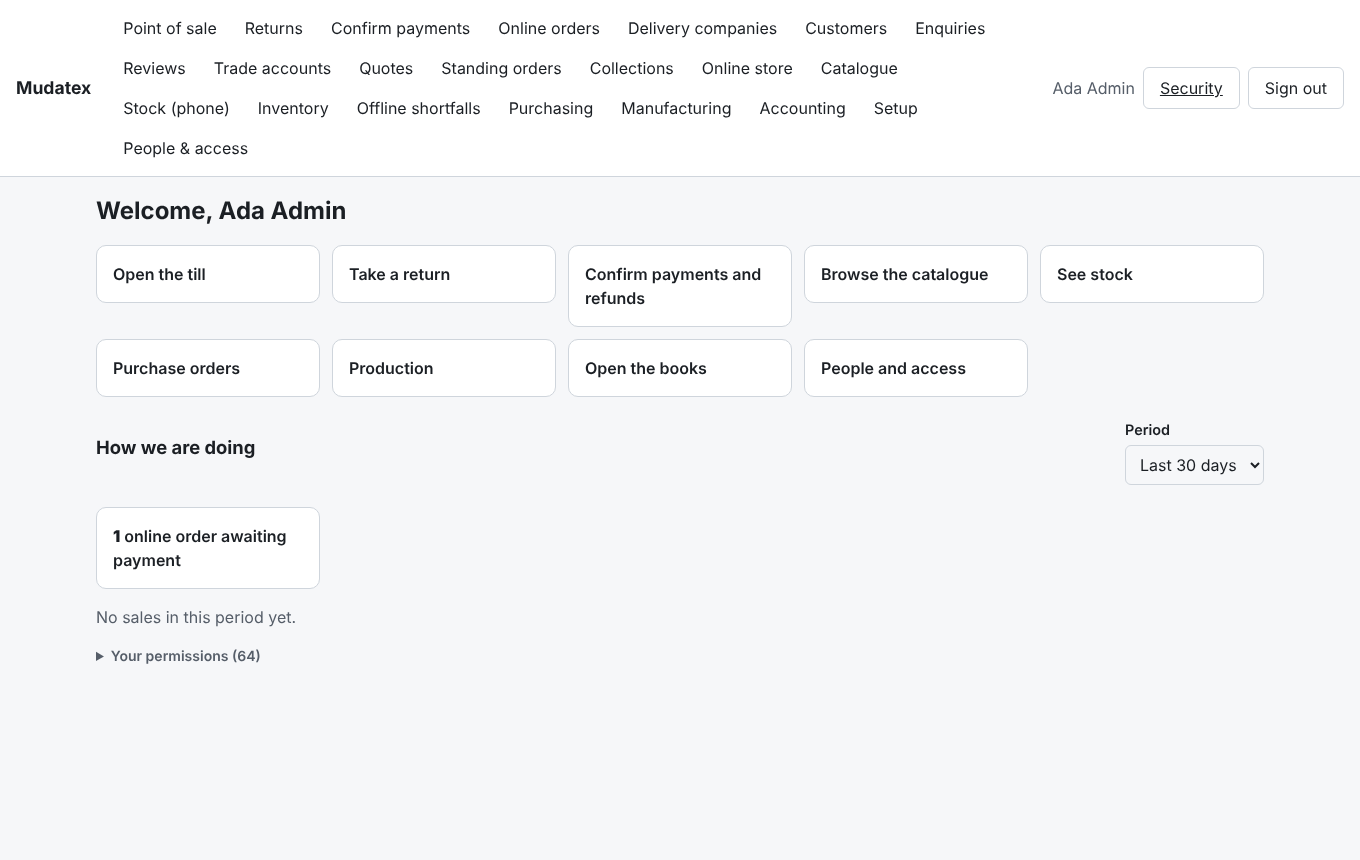
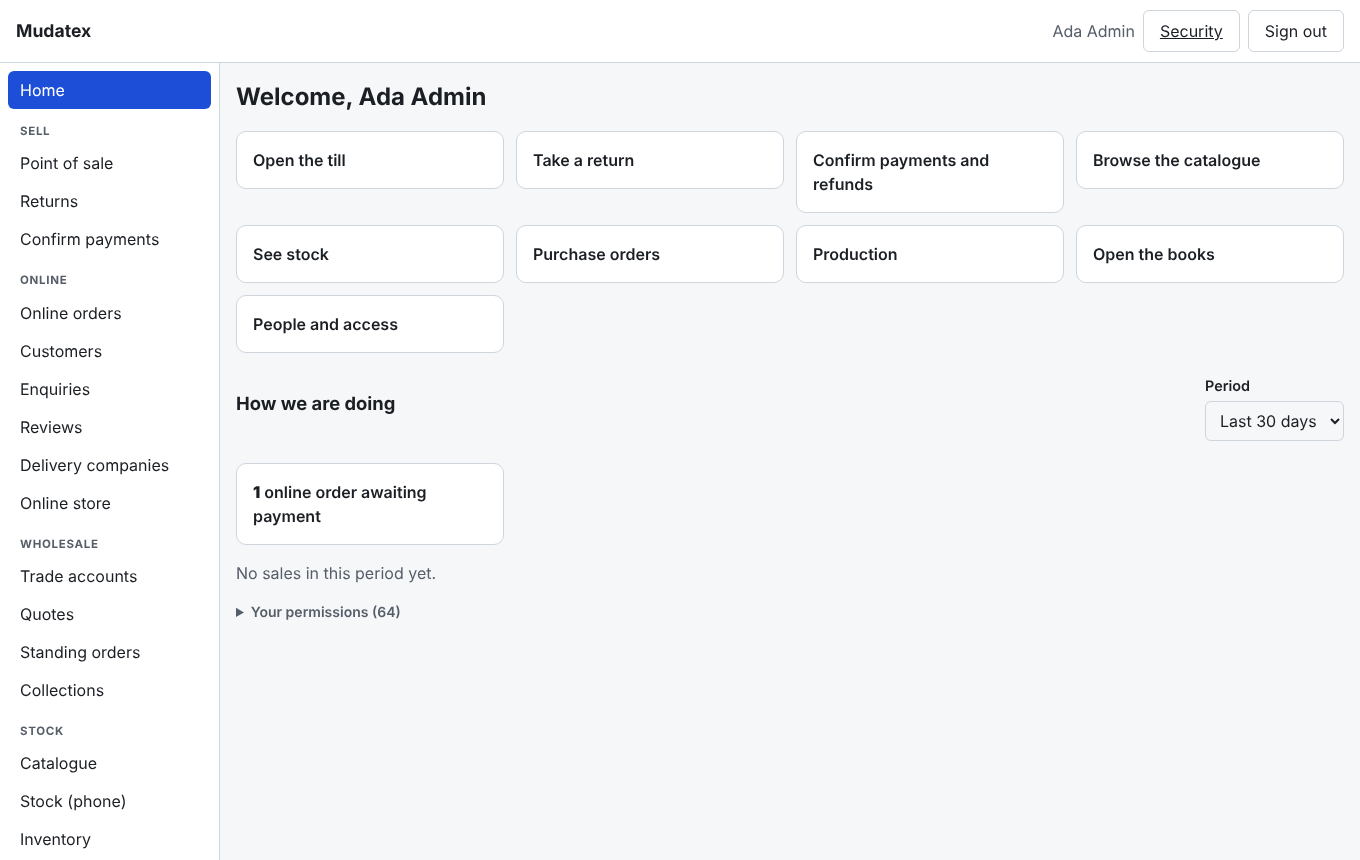
Console menu: grouped sidebar by kind of work, filtered by permission, folded behind a Menu button on phones
Claude-Session: https://claude.ai/code/session_01T6jzjkLiReAXxtcZjntMsg

diff --git a/apps/web/src/components/Layout.tsx b/apps/web/src/components/Layout.tsx
@@ -1,51 +1,82 @@
-import { NavLink, Outlet } from 'react-router-dom';
+import { useEffect, useState } from 'react';
+import { NavLink, Outlet, useLocation } from 'react-router-dom';
 import { useAuth } from '../lib/auth';
 
-const NAV: { to: string; label: string; needs: string }[] = [
-  { to: '/pos', label: 'Point of sale', needs: 'pos.sell' },
-  { to: '/returns', label: 'Returns', needs: 'pos.refund' },
-  { to: '/payments', label: 'Confirm payments', needs: 'pos.payment.verify' },
-  { to: '/orders', label: 'Online orders', needs: 'orders.read' },
-  { to: '/delivery', label: 'Delivery companies', needs: 'carriers.manage' },
-  { to: '/customers', label: 'Customers', needs: 'customers.manage' },
-  { to: '/enquiries', label: 'Enquiries', needs: 'enquiries.manage' },
-  { to: '/reviews', label: 'Reviews', needs: 'reviews.moderate' },
-  { to: '/trade', label: 'Trade accounts', needs: 'trade.manage' },
-  { to: '/quotes', label: 'Quotes', needs: 'quotes.manage' },
-  { to: '/standing-orders', label: 'Standing orders', needs: 'trade.manage' },
-  { to: '/collections', label: 'Collections', needs: 'trade.manage' },
-  { to: '/store', label: 'Online store', needs: 'storefront.manage' },
-  { to: '/catalogue', label: 'Catalogue', needs: 'catalog.read' },
-  { to: '/stock', label: 'Stock (phone)', needs: 'inventory.read' },
-  { to: '/inventory', label: 'Inventory', needs: 'inventory.read' },
-  { to: '/till-exceptions', label: 'Offline shortfalls', needs: 'inventory.adjust' },
-  { to: '/purchasing', label: 'Purchasing', needs: 'procurement.read' },
-  { to: '/manufacturing', label: 'Manufacturing', needs: 'manufacturing.read' },
-  { to: '/accounting', label: 'Accounting', needs: 'accounting.read' },
-  { to: '/setup', label: 'Setup', needs: 'org.manage' },
-  { to: '/access', label: 'People & access', needs: 'iam.manage' },
+interface Item { to: string; label: string; needs: string }
+/** The menu, grouped by the kind of work. A person sees only the links they have permission for, and only the groups that still have one. */
+export const NAV_GROUPS: { title: string; items: Item[] }[] = [
+  { title: 'Sell', items: [
+    { to: '/pos', label: 'Point of sale', needs: 'pos.sell' },
+    { to: '/returns', label: 'Returns', needs: 'pos.refund' },
+    { to: '/payments', label: 'Confirm payments', needs: 'pos.payment.verify' },
+  ] },
+  { title: 'Online', items: [
+    { to: '/orders', label: 'Online orders', needs: 'orders.read' },
+    { to: '/customers', label: 'Customers', needs: 'customers.manage' },
+    { to: '/enquiries', label: 'Enquiries', needs: 'enquiries.manage' },
+    { to: '/reviews', label: 'Reviews', needs: 'reviews.moderate' },
+    { to: '/delivery', label: 'Delivery companies', needs: 'carriers.manage' },
+    { to: '/store', label: 'Online store', needs: 'storefront.manage' },
+  ] },
+  { title: 'Wholesale', items: [
+    { to: '/trade', label: 'Trade accounts', needs: 'trade.manage' },
+    { to: '/quotes', label: 'Quotes', needs: 'quotes.manage' },
+    { to: '/standing-orders', label: 'Standing orders', needs: 'trade.manage' },
+    { to: '/collections', label: 'Collections', needs: 'trade.manage' },
+  ] },
+  { title: 'Stock', items: [
+    { to: '/catalogue', label: 'Catalogue', needs: 'catalog.read' },
+    { to: '/stock', label: 'Stock (phone)', needs: 'inventory.read' },
+    { to: '/inventory', label: 'Inventory', needs: 'inventory.read' },
+    { to: '/till-exceptions', label: 'Offline shortfalls', needs: 'inventory.adjust' },
+  ] },
+  { title: 'Buy and make', items: [
+    { to: '/purchasing', label: 'Purchasing', needs: 'procurement.read' },
+    { to: '/manufacturing', label: 'Manufacturing', needs: 'manufacturing.read' },
+  ] },
+  { title: 'Money', items: [{ to: '/accounting', label: 'Accounting', needs: 'accounting.read' }] },
+  { title: 'Company', items: [
+    { to: '/setup', label: 'Setup', needs: 'org.manage' },
+    { to: '/access', label: 'People & access', needs: 'iam.manage' },
+  ] },
 ];
 
 export function Layout() {
   const { session, signOut, can } = useAuth();
+  const [open, setOpen] = useState(false);
+  const location = useLocation();
+  // On a phone the menu folds away after a choice.
+  useEffect(() => { setOpen(false); }, [location.pathname]);
   if (!session) return null;
+  const groups = NAV_GROUPS.map((g) => ({ ...g, items: g.items.filter((n) => can(n.needs)) })).filter((g) => g.items.length > 0);
   return (
     <div className="shell">
       <a className="skip" href="#main">Skip to content</a>
       <header className="topbar">
         <strong className="brand">Mudatex</strong>
-        <nav aria-label="Main">
-          {NAV.filter((n) => can(n.needs)).map((n) => (
-            <NavLink key={n.to} to={n.to} className={({ isActive }) => (isActive ? 'active' : undefined)}>{n.label}</NavLink>
-          ))}
-        </nav>
         <div className="who">
           <span className="muted" title={session.user.email}>{session.user.displayName}</span>
           <NavLink to="/security" className="btn btn-ghost">Security</NavLink>
           <button type="button" className="btn btn-ghost" onClick={signOut}>Sign out</button>
         </div>
       </header>
-      <main id="main" className="content"><Outlet /></main>
+      <div className="frame">
+        <nav aria-label="Main" className={open ? 'sidenav open' : 'sidenav'}>
+          <button type="button" className="btn menu-toggle" aria-expanded={open} aria-controls="nav-groups" onClick={() => setOpen(!open)}>{open ? 'Close menu' : 'Menu'}</button>
+          <div id="nav-groups" className="nav-groups">
+            <NavLink to="/" end className={({ isActive }) => (isActive ? 'active home-link' : 'home-link')}>Home</NavLink>
+            {groups.map((g) => (
+              <div key={g.title} role="group" aria-label={g.title}>
+                <h2 className="nav-title">{g.title}</h2>
+                <ul className="plain">
+                  {g.items.map((n) => <li key={n.to}><NavLink to={n.to} className={({ isActive }) => (isActive ? 'active' : undefined)}>{n.label}</NavLink></li>)}
+                </ul>
+              </div>
+            ))}
+          </div>
+        </nav>
+        <main id="main" className="content"><Outlet /></main>
+      </div>
     </div>
   );
 }

diff --git a/apps/web/src/styles.css b/apps/web/src/styles.css
@@ -22,11 +22,24 @@ h1 { font-size: 1.5rem; margin: 0; } h2 { font-size: 1.15rem; margin: 0 0 .5rem;
 
 .topbar { display: flex; flex-wrap: wrap; align-items: center; gap: 8px 20px; padding: 10px 16px; background: var(--surface); border-bottom: 1px solid var(--border); }
 .brand { font-size: 1.1rem; }
-.topbar nav { display: flex; flex-wrap: wrap; gap: 4px; flex: 1; }
-.topbar nav a { padding: 6px 12px; border-radius: 6px; color: var(--text); text-decoration: none; }
-.topbar nav a.active { background: var(--primary); color: var(--primary-text); }
-.who { display: flex; align-items: center; gap: 8px; }
-.content { max-width: 1200px; margin: 0 auto; padding: 16px; }
+.topbar { justify-content: space-between; }
+.who { display: flex; align-items: center; gap: 8px; flex-wrap: wrap; }
+.content { max-width: 1200px; margin: 0 auto; padding: 16px; min-width: 0; flex: 1; }
+/* The menu: a column at the left on a wide screen, folded behind a button on a phone. */
+.frame { display: block; }
+.sidenav { padding: 8px 16px; background: var(--surface); border-bottom: 1px solid var(--border); }
+.sidenav a { display: block; padding: 7px 12px; border-radius: 6px; color: var(--text); text-decoration: none; }
+.sidenav a:hover { background: color-mix(in srgb, var(--primary) 10%, transparent); }
+.sidenav a.active { background: var(--primary); color: var(--primary-text); }
+.nav-title { font-size: .72rem; font-weight: 700; letter-spacing: .06em; text-transform: uppercase; color: var(--muted, #667); margin: 14px 12px 4px; }
+.nav-groups { display: none; }
+.sidenav.open .nav-groups { display: block; padding-bottom: 8px; }
+@media (min-width: 900px) {
+  .frame { display: flex; align-items: flex-start; }
+  .sidenav { position: sticky; top: 0; flex: 0 0 220px; height: calc(100vh - 56px); overflow-y: auto; border-bottom: 0; border-right: 1px solid var(--border); padding: 8px; }
+  .menu-toggle { display: none; }
+  .nav-groups { display: block; }
+}
 .page-header { display: flex; flex-wrap: wrap; justify-content: space-between; align-items: center; gap: 8px; margin-bottom: 16px; }
 .page-actions, .toolbar, .row-end { display: flex; flex-wrap: wrap; gap: 8px; align-items: end; }
 .row-end { justify-content: flex-end; margin-top: 12px; }
@@ -81,7 +94,7 @@ th[scope='row'] { font-weight: 500; }
 .chip-on { border-color: var(--primary); box-shadow: inset 0 0 0 1px var(--primary); font-weight: 600; }
 .change { font-size: 1.2rem; }
 .receipt { max-width: 480px; margin-inline: auto; }
-@media print { .topbar, .row-end, .skip { display: none; } body { background: #fff; color: #000; } }
+@media print { .topbar, .sidenav, .row-end, .skip { display: none; } body { background: #fff; color: #000; } }
 @media print {
   body.printing-doc #root * { visibility: hidden; }
   body.printing-doc .print-doc, body.printing-doc .print-doc * { visibility: visible; }

diff --git a/apps/web/e2e/menu.spec.ts b/apps/web/e2e/menu.spec.ts
@@ -1,0 +1,20 @@
+import { expect, test } from '@playwright/test';
+import { noA11yViolations, signIn } from './helpers';
+
+test('the menu is grouped, and people see only the groups they have a use for', async ({ page }) => {
+  await signIn(page, 'admin@e2e.test');
+  const menu = page.getByRole('navigation', { name: 'Main' });
+  for (const group of ['Sell', 'Online', 'Wholesale', 'Stock', 'Buy and make', 'Money', 'Company']) await expect(menu.getByRole('group', { name: group })).toBeVisible();
+  await expect(menu.getByRole('group', { name: 'Online' }).getByRole('link', { name: 'Online orders' })).toBeVisible();
+  await expect(menu.getByRole('group', { name: 'Money' }).getByRole('link', { name: 'Accounting' })).toBeVisible();
+  await menu.getByRole('link', { name: 'Customers' }).click();
+  await expect(menu.getByRole('link', { name: 'Customers' })).toHaveClass(/active/);
+  await noA11yViolations(page);
+  await page.getByRole('button', { name: 'Sign out' }).click();
+
+  // a cashier has a till and nothing else to show
+  await signIn(page, 'cashier@e2e.test');
+  await expect(menu.getByRole('group', { name: 'Sell' })).toBeVisible();
+  for (const group of ['Money', 'Company', 'Buy and make', 'Wholesale']) await expect(menu.getByRole('group', { name: group })).toHaveCount(0);
+  await expect(menu.getByRole('link', { name: 'People & access' })).toHaveCount(0);
+});

diff --git a/apps/web/e2e/responsive.spec.ts b/apps/web/e2e/responsive.spec.ts
@@ -10,3 +10,19 @@ test('the till and the stock page fit a phone screen without sideways scrolling'
     expect(overflow, `${path} scrolls sideways`).toBeLessThanOrEqual(0);
   }
 });
+
+test('on a phone the menu is folded behind a button, opens, and folds again after a choice', async ({ page, isMobile }) => {
+  test.skip(!isMobile, 'the folded menu is for phones');
+  await signIn(page, 'admin@e2e.test');
+  const menu = page.getByRole('navigation', { name: 'Main' });
+  const toggle = menu.getByRole('button', { name: 'Menu' });
+  await expect(toggle).toHaveAttribute('aria-expanded', 'false');
+  await expect(menu.getByRole('link', { name: 'Inventory' })).toBeHidden();
+  await toggle.click();
+  await expect(menu.getByRole('button', { name: 'Close menu' })).toHaveAttribute('aria-expanded', 'true');
+  await menu.getByRole('link', { name: 'Inventory' }).click();
+  await expect(page.getByRole('main')).toBeVisible();
+  await expect(menu.getByRole('link', { name: 'Inventory' })).toBeHidden();   // folded again
+  const overflow = await page.evaluate(() => document.documentElement.scrollWidth - document.documentElement.clientWidth);
+  expect(overflow).toBeLessThanOrEqual(0);
+});

diff --git a/docs/PROJECT_OVERVIEW_AND_STATUS.md b/docs/PROJECT_OVERVIEW_AND_STATUS.md
@@ -77,6 +77,7 @@ foundations that suit a large company, and does not copy Sakash's code or its we
 | **Text messages** | Shoppers who opt in are texted when an order is paid, sent or delivered (in their language, with a link). Off until a Termii key and sender ID are set; written from the provider's public description and not yet tried with a live account. Guide: `operations/SMS.md`. |
 | **Customer desk** | Staff with the whole-company permission search shoppers, see their profile, addresses, trade account and orders, block or unblock an account (reason kept, effective at once), and download everything held about a customer. Deleting a customer is not built (a legal decision). Guide: `operations/CUSTOMERS.md`. |
 | **Product photos** | Staff add photos to products and departments from a phone camera or computer: shrunk on the device, checked and stored by the server, shown in the shop with long caching; reorder, remove, or paste a link instead. No outside image service. Guide: `operations/PRODUCT_PHOTOS.md`. |
+| **Console menu** | The staff console menu is grouped (Sell, Online, Wholesale, Stock, Buy and make, Money, Company) in a column at the left, shows each person only the groups and links they have permission for, and folds behind a Menu button on a phone. |
 | **Offline till** | Cash sales continue with no connection: a saved price list, local pricing identical to the server's, a safe on-device queue, automatic catch-up with official receipt numbers, server re-pricing with variance, shortfalls listed for the stock controller. Guide: `operations/OFFLINE_TILL.md`. |
 | **Stock on a phone** | Count a shelf, receive against purchase orders or without one, and look up stock from a phone: barcode scanning (scanner, typed, or camera), blind counts compared against the books as they were at counting time, differences raised as one maker-checker adjustment, a downloaded stock list and an on-device queue so work continues without signal. Guide: `operations/STOCK_APP.md`. |
 | **Shop languages** | English, French and Hausa with a picker and browser-language detection; prices unchanged across languages. Hausa is a draft that needs a native reader. Guide: `operations/SHOP_LANGUAGES.md`. |
